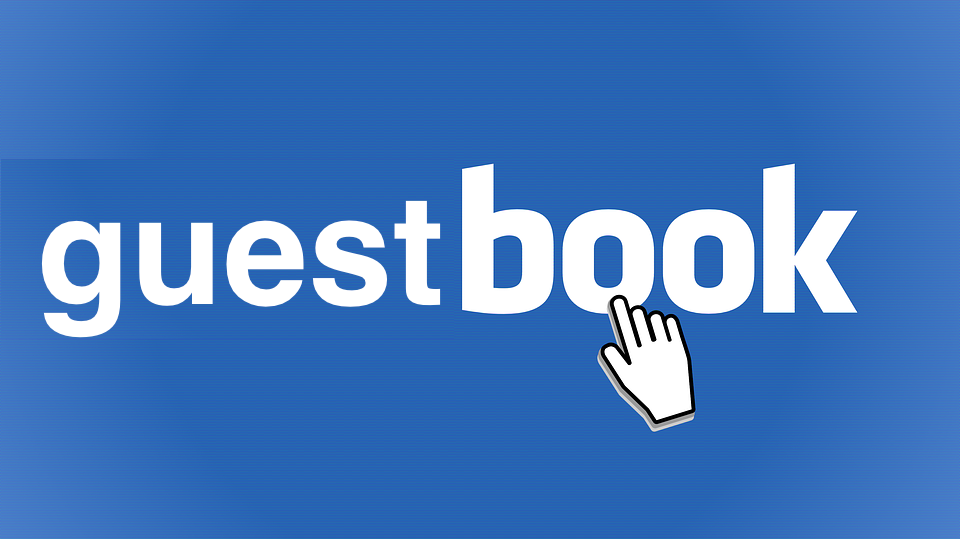
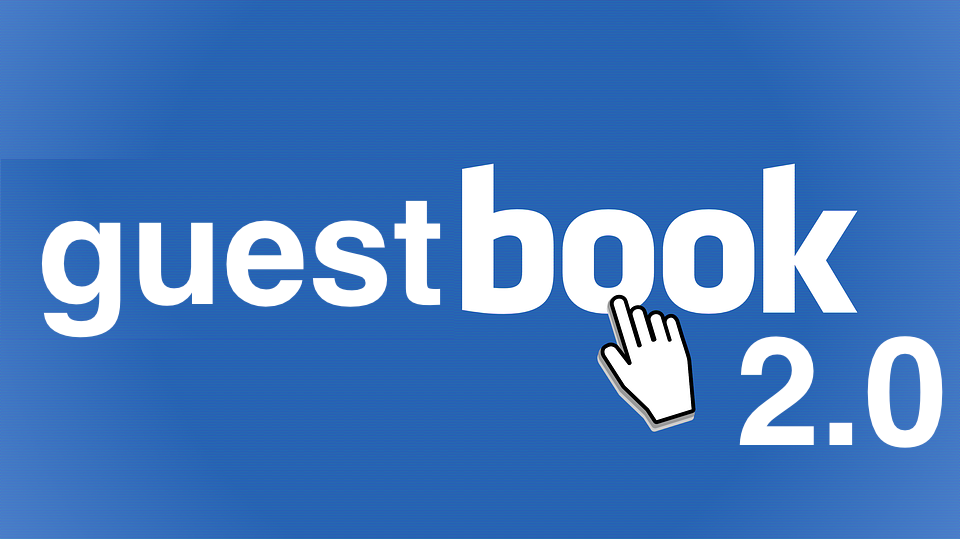
streamline landing, add nuke

Changed region(s): [[0.75, 0.6234, 1.0, 0.8312]]

diff --git a/app/templates/home.html b/app/templates/home.html
@@ -10,32 +10,16 @@
 <div class="container">
 
 	<div class='row'>
-
-		<div class='col-sm-4'>
-			<p>Here at Very Consequential Web Application, we store sensitive data and let users do important things.  We're a bank, or something like that.</p>
-			<img src='static/img/business.jpg' width='100%'/>
+		<div class='col-sm-3 col-sm-offset-3'>
+			<a href='/guestbook/'><img src='static/img/guestbook.png' width='100%'/></a>
+			<small><em>Now with CSRF Middleware</e></small>
 		</div>
-		
-		<div class='col-sm-4'>
-			<p>We love millenials and want to connect with them so we built this viral greeter app where they can send their friends links to a customized page.  It's so 🔥🔥🔥.</p>
-			<img src='static/img/fellow_kids.gif' width='100%'/>
-			<br/>
-			<br/>
-			<form action="/greeter/" style='text-align:center'>
-				<input type='text' name='name' placeholder="Your Friend's Name">
-				<input type='submit' value='Make Lit AF page'>
-			</form>
-			<br/>
-			<p><small>If you're trying to craft a reflected XSS attack in a recent version of Chrome, you might find a pleasant surprise.</small></p>
-		</div>
-		
-		<div class='col-sm-4'>
+		<div class='col-sm-3'>
+			<h2>guestbook 2.0</h2>
 			<p>As a hip company, we know you want to share online about your experiences.  So, we built our own social network called <a href='/guestbook/'>guestbook</a>!</p>
-			<img src='static/img/guestbook.png' width='100%'/>
-			<p><small>CSRF and XSS vulnerabilities included free!</small></p>
 		</div>
-
 	</div>
+		
 </div>
 
 {% endblock %}

diff --git a/app/templates/header.html b/app/templates/header.html
@@ -2,8 +2,8 @@
 
 	<div class='row'>
 		<div class='col-md-6-offset-3' style="text-align:center">
-			<h1>Seemingly Secure Django Application</h1>
-			<p><small>A just barely pwned subsidiary of Very Very Vulnerable, Incorporated.</small></p>
+			<h1><a href="/">Seemingly Secure Django Application</a></h1>
+			<p><small>A just barely pwned subsidiary <a href="http://veryveryvulnerable.com">Very Very Vulnerable, Incorporated</a>.</small></p>
 		</div>
 	</div>
 	<br/>

diff --git a/app/views.py b/app/views.py
@@ -1,7 +1,6 @@
 import datetime
 import os
 
-from django.contrib.auth.decorators import login_required
 from django.http import HttpResponse
 from django.shortcuts import render
 from django.template import RequestContext
@@ -26,11 +25,13 @@ def get_messages():
         for key in reversed(sorted(db.keys()))
     ]
 
-@login_required
 def home(request):
     return render(request=request, template_name='templates/home.html')
 
 def guestbook(request):
+    # version 2.0
+    # CSRF Middleware protects this by default in Django
+
     # store the new message, if there is one
     if request.method == 'POST':
         store_message(request.POST.get('message'))
@@ -43,5 +44,11 @@ def guestbook(request):
     )
 
 def greeter(request):
+    # Not used in the talk, but here's a vulnerable django greeter
     who = request.GET.get('name', 'friend')
     return HttpResponse("Hello, {}".format(who))
+
+def nuke(request):
+    """Clears the guestbook message board."""
+    get_db().flushall()
+    return HttpResponse('database nuked')

diff --git a/ssda/urls.py b/ssda/urls.py
@@ -15,14 +15,12 @@ Including another URLconf
 """
 from django.conf.urls import url, include
 from django.contrib import admin
-from django.contrib.auth import views as auth_views
 
-from app.views import home, guestbook, greeter
+from app.views import home, guestbook, greeter, nuke
 
 urlpatterns = [
-    url(r'^accounts/login/$', auth_views.LoginView.as_view(template_name='login.html')),
-    url(r'^accounts/logout/$', auth_views.LogoutView.as_view(template_name='login.html')),
-    url(r'^guestbook/', guestbook),
-    url(r'^greeter/', greeter),
+    url(r'^guestbook/$', guestbook),
+    url(r'^greeter/$', greeter),
+    url(r'^nuke/$', nuke),
     url(r'^', home),
 ]
